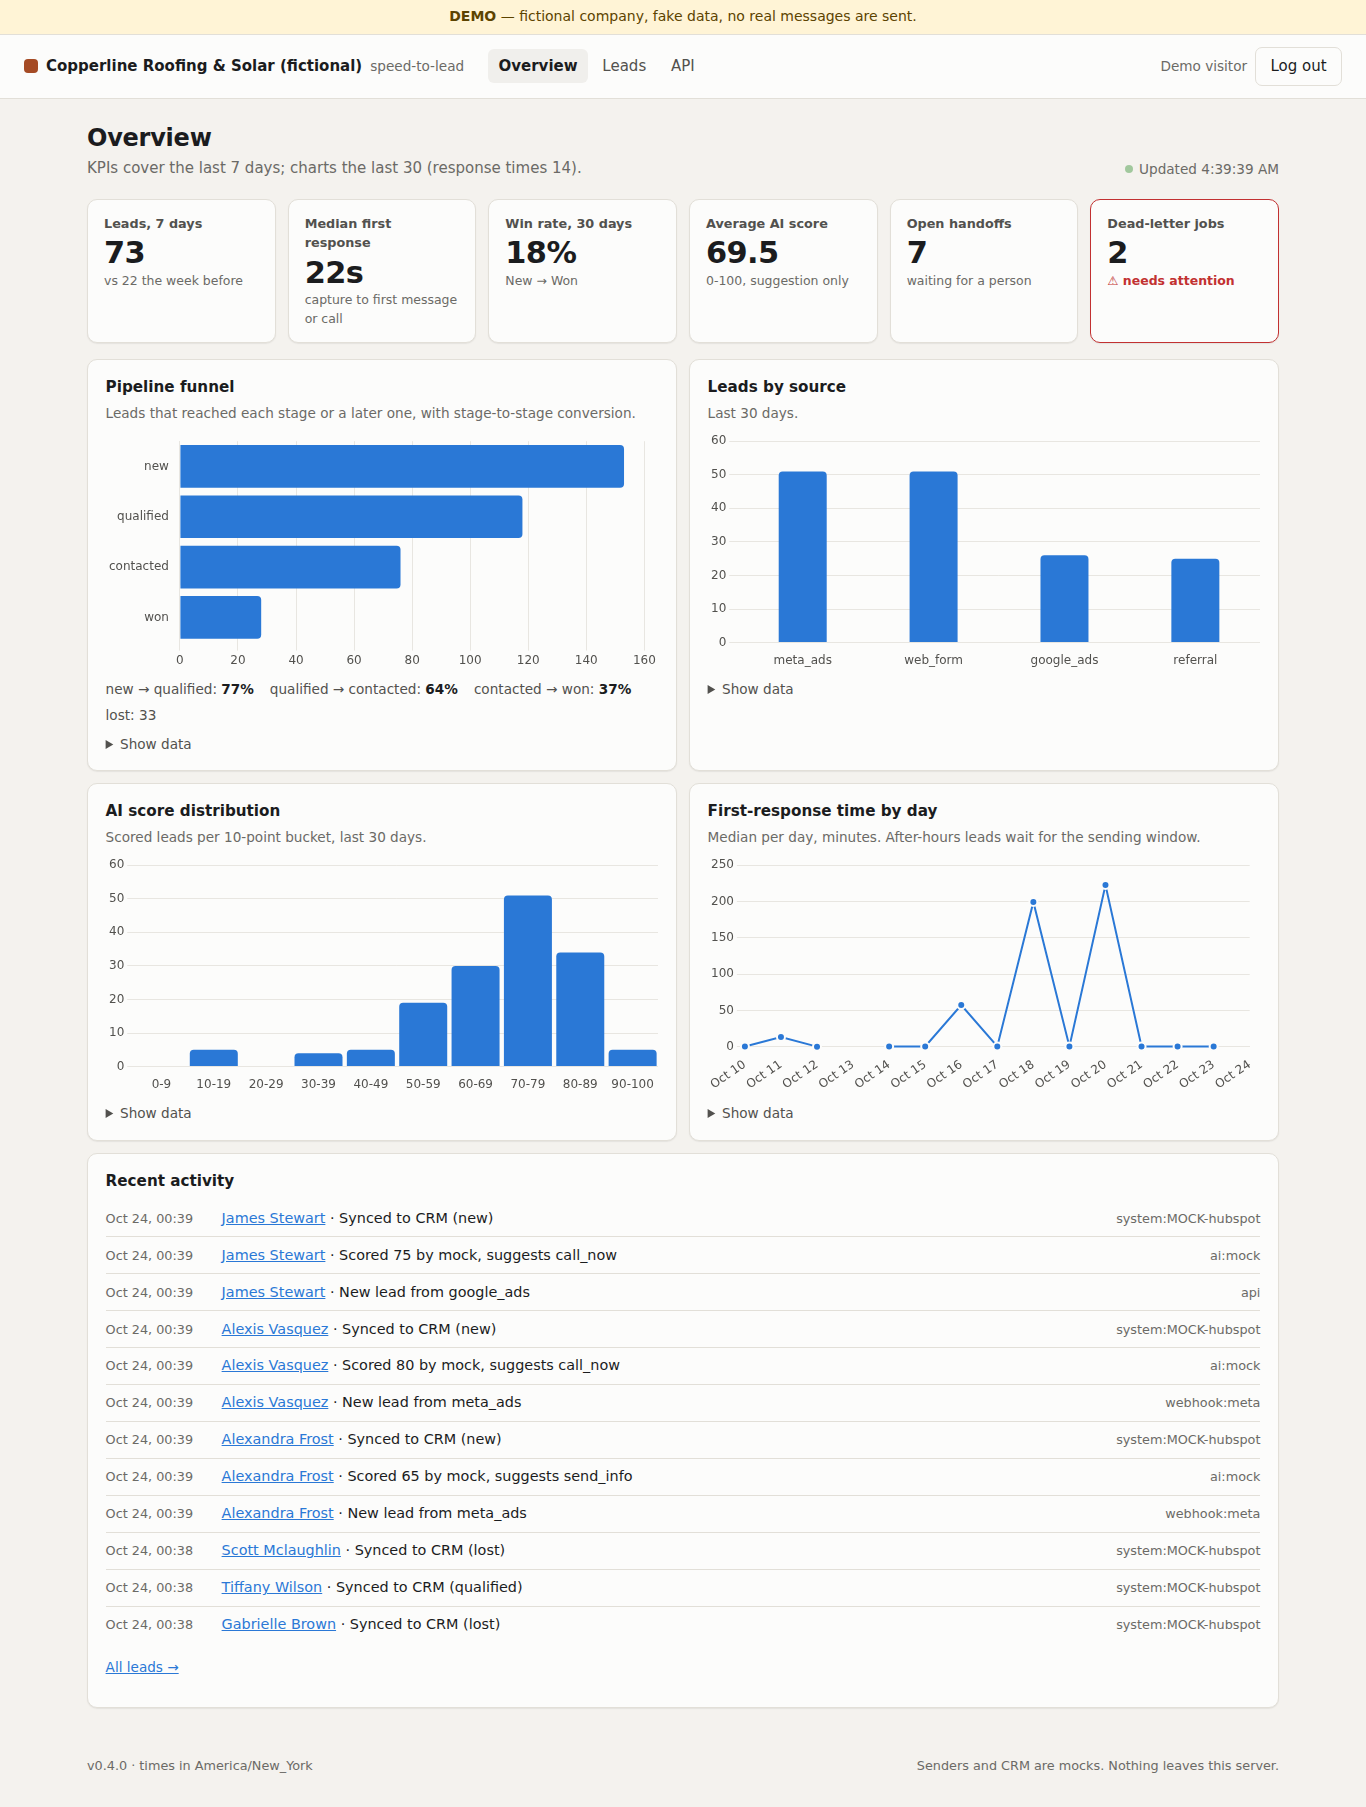
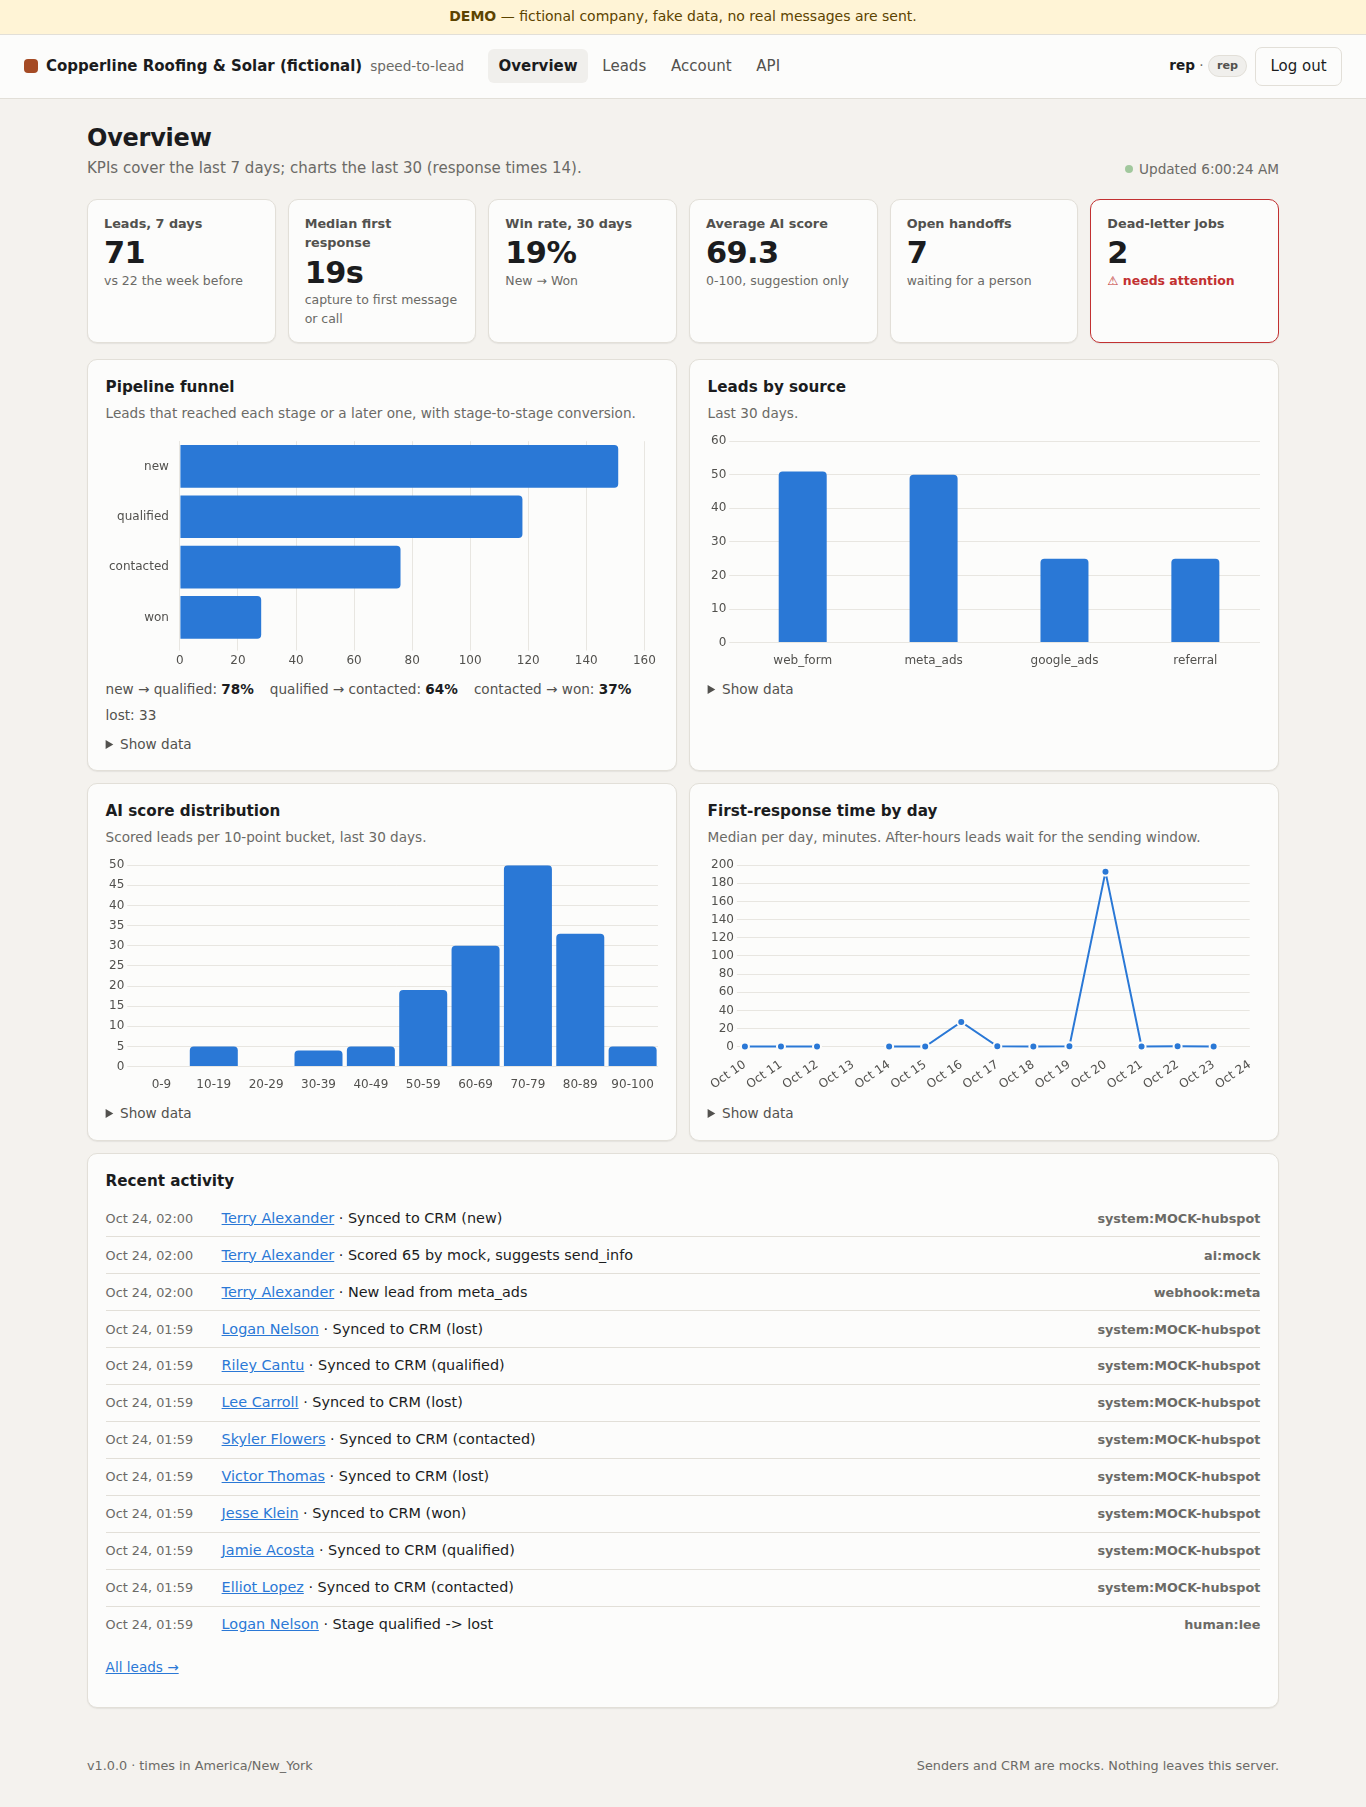
docs: refresh screenshots (login, dashboard, lead detail, audit log) and add a demo GIF
take_screenshots.py now passes the two-factor step for the demo admin and waits without
eval (the dashboard's CSP forbids it); record_demo_gif.py records the live dashboard with
Playwright and converts it with ffmpeg.

diff --git a/scripts/record_demo_gif.py b/scripts/record_demo_gif.py
@@ -1,0 +1,106 @@
+#!/usr/bin/env python3
+"""Record docs/demo.gif from a running demo: the dashboard updating as simulated leads
+arrive, then opening the newest lead.
+
+Usage:
+    python scripts/record_demo_gif.py [--url http://127.0.0.1:8000] [--out docs/demo.gif]
+
+Needs the ``playwright`` package with a Chromium, and ``ffmpeg`` on PATH. Start the demo with
+a short simulator interval so a few leads arrive while recording, e.g.
+``DEMO_INTERVAL_MIN_SECONDS=1.5 DEMO_INTERVAL_MAX_SECONDS=3 make demo``. Logs in as the demo
+viewer, so contact details stay masked.
+"""
+
+from __future__ import annotations
+
+import argparse
+import shutil
+import subprocess
+import tempfile
+from pathlib import Path
+
+from playwright.sync_api import sync_playwright
+
+ROOT = Path(__file__).resolve().parent.parent
+SIZE = {"width": 1280, "height": 800}
+
+
+def record(url: str, video_dir: Path, seconds: float) -> Path:
+    with sync_playwright() as pw:
+        browser = pw.chromium.launch()
+        # Log in outside the recording, then hand the session to a recorded context.
+        login_ctx = browser.new_context(viewport=SIZE)
+        page = login_ctx.new_page()
+        page.goto(f"{url}/login")
+        page.fill("#email", "viewer@example.com")
+        page.fill("#password", page.inner_text("#demo-password").strip())
+        page.click("button[type=submit]")
+        page.wait_for_url("**/dashboard**")
+        state = login_ctx.storage_state()
+        login_ctx.close()
+
+        ctx = browser.new_context(
+            viewport=SIZE,
+            storage_state=state,
+            record_video_dir=str(video_dir),
+            record_video_size=SIZE,
+            color_scheme="light",
+        )
+        page = ctx.new_page()
+        page.goto(f"{url}/dashboard")
+        page.locator("#updated", has_text="Updated").wait_for()  # the CSP forbids eval
+        # Scroll so the KPI tiles and the live activity feed are both in view while it updates.
+        page.wait_for_timeout(int(seconds * 1000 * 0.35))
+        page.mouse.wheel(0, 700)
+        page.wait_for_timeout(int(seconds * 1000 * 0.35))
+        page.mouse.wheel(0, -700)
+        page.wait_for_timeout(1000)
+        page.goto(f"{url}/dashboard/leads")
+        page.wait_for_timeout(1200)
+        page.click("table.leads tbody a >> nth=0")
+        page.wait_for_selector("text=AI assessment")
+        page.wait_for_timeout(int(seconds * 1000 * 0.2))
+        video = page.video
+        ctx.close()
+        browser.close()
+        assert video is not None
+        return Path(video.path())
+
+
+def to_gif(video: Path, out: Path, width: int, fps: int) -> None:
+    ffmpeg = shutil.which("ffmpeg")
+    if ffmpeg is None:
+        raise SystemExit("ffmpeg not found on PATH")
+    filters = f"fps={fps},scale={width}:-1:flags=lanczos"
+    use_palette = "paletteuse=dither=bayer:bayer_scale=5:diff_mode=rectangle"
+    with tempfile.TemporaryDirectory() as tmp:
+        palette = Path(tmp) / "palette.png"
+        subprocess.run(  # noqa: S603  (fixed arguments, local files)
+            [ffmpeg, "-y", "-v", "error", "-i", str(video),
+             "-vf", f"{filters},palettegen=stats_mode=diff", str(palette)],
+            check=True,
+        )  # fmt: skip
+        subprocess.run(  # noqa: S603
+            [ffmpeg, "-y", "-v", "error", "-i", str(video), "-i", str(palette),
+             "-lavfi", f"{filters}[x];[x][1:v]{use_palette}", str(out)],
+            check=True,
+        )  # fmt: skip
+
+
+def main() -> int:
+    parser = argparse.ArgumentParser(description=__doc__.splitlines()[0])
+    parser.add_argument("--url", default="http://127.0.0.1:8000")
+    parser.add_argument("--out", type=Path, default=ROOT / "docs" / "demo.gif")
+    parser.add_argument("--seconds", type=float, default=14.0)
+    parser.add_argument("--width", type=int, default=1000)
+    parser.add_argument("--fps", type=int, default=6)
+    args = parser.parse_args()
+    with tempfile.TemporaryDirectory() as tmp:
+        video = record(args.url, Path(tmp), args.seconds)
+        to_gif(video, args.out, args.width, args.fps)
+    print(f"saved {args.out} ({args.out.stat().st_size / 1_000_000:.1f} MB)")
+    return 0
+
+
+if __name__ == "__main__":
+    raise SystemExit(main())

diff --git a/scripts/take_screenshots.py b/scripts/take_screenshots.py
@@ -5,8 +5,9 @@ Usage:
     python scripts/take_screenshots.py [--url http://127.0.0.1:8000] [--out docs/screenshots]
 
 Needs the ``playwright`` package and a Chromium it can find (not a project dependency).
-It logs in as the demo rep with the password shown on the login page, so it only ever sees
-fake data.
+It logs in with the demo accounts and the password shown on the login page (the demo
+admin's two-factor code is shown on the code step), so it only ever sees fake data. Run it
+against a demo started with the default DEMO_ROLES (admin, rep and viewer).
 """
 
 from __future__ import annotations
@@ -14,9 +15,34 @@ from __future__ import annotations
 import argparse
 from pathlib import Path
 
-from playwright.sync_api import sync_playwright
+from playwright.sync_api import Page, sync_playwright
 
 ROOT = Path(__file__).resolve().parent.parent
+
+
+def log_in(page: Page, url: str, email: str) -> None:
+    """Password step, then the two-factor step if the account has one (the demo admin)."""
+    page.goto(f"{url}/login")
+    page.wait_for_selector("#demo-password")
+    page.fill("#email", email)
+    page.fill("#password", page.inner_text("#demo-password").strip())
+    page.click("button[type=submit]")
+    page.wait_for_load_state()
+    if "/login/2fa" in page.url:
+        page.fill("#code", page.inner_text(".callout code").strip())
+        page.click("button[type=submit]")
+    page.wait_for_url("**/dashboard**")
+
+
+def log_out(page: Page) -> None:
+    page.click("form.logout button")
+    page.wait_for_url("**/login**")
+
+
+def wait_for_dashboard(page: Page) -> None:
+    # A locator wait, not wait_for_function: the page's CSP forbids eval.
+    page.locator("#updated", has_text="Updated").wait_for()
+    page.wait_for_timeout(800)  # let the charts finish drawing
 
 
 def main() -> int:
@@ -38,17 +64,11 @@ def main() -> int:
         page.wait_for_selector("#demo-password")
         page.screenshot(path=str(args.out / "login.png"))
 
-        page.fill("#email", "rep@example.com")
-        page.fill("#password", page.inner_text("#demo-password").strip())
-        page.click("button[type=submit]")
-        page.wait_for_url("**/dashboard")
-        page.wait_for_function(
-            "document.getElementById('updated').textContent.startsWith('Updated')"
-        )
-        page.wait_for_timeout(800)  # let the charts finish drawing
+        log_in(page, args.url, "rep@example.com")
+        wait_for_dashboard(page)
         page.screenshot(path=str(args.out / "dashboard.png"), full_page=True)
 
-        # A lead with some history: qualified, already messaged, a day or more old.
+        # A lead with some history: qualified, already messaged. Contact details stay masked.
         page.goto(f"{args.url}/dashboard/leads?stage=qualified&page=1")
         links = page.eval_on_selector_all(
             "table.leads tbody a", "els => els.map(e => e.getAttribute('href'))"
@@ -59,8 +79,15 @@ def main() -> int:
                 break
         page.wait_for_selector("text=AI assessment")
         page.screenshot(path=str(args.out / "lead-detail.png"), full_page=True)
+        log_out(page)
+
+        # The audit log, as the demo admin (password, then the two-factor code).
+        log_in(page, args.url, "admin@example.com")
+        page.goto(f"{args.url}/dashboard/admin/audit")
+        page.wait_for_selector("table")
+        page.screenshot(path=str(args.out / "security.png"))
         browser.close()
-    print(f"saved login.png, dashboard.png, lead-detail.png to {args.out}")
+    print(f"saved login.png, dashboard.png, lead-detail.png, security.png to {args.out}")
     return 0
 
 
